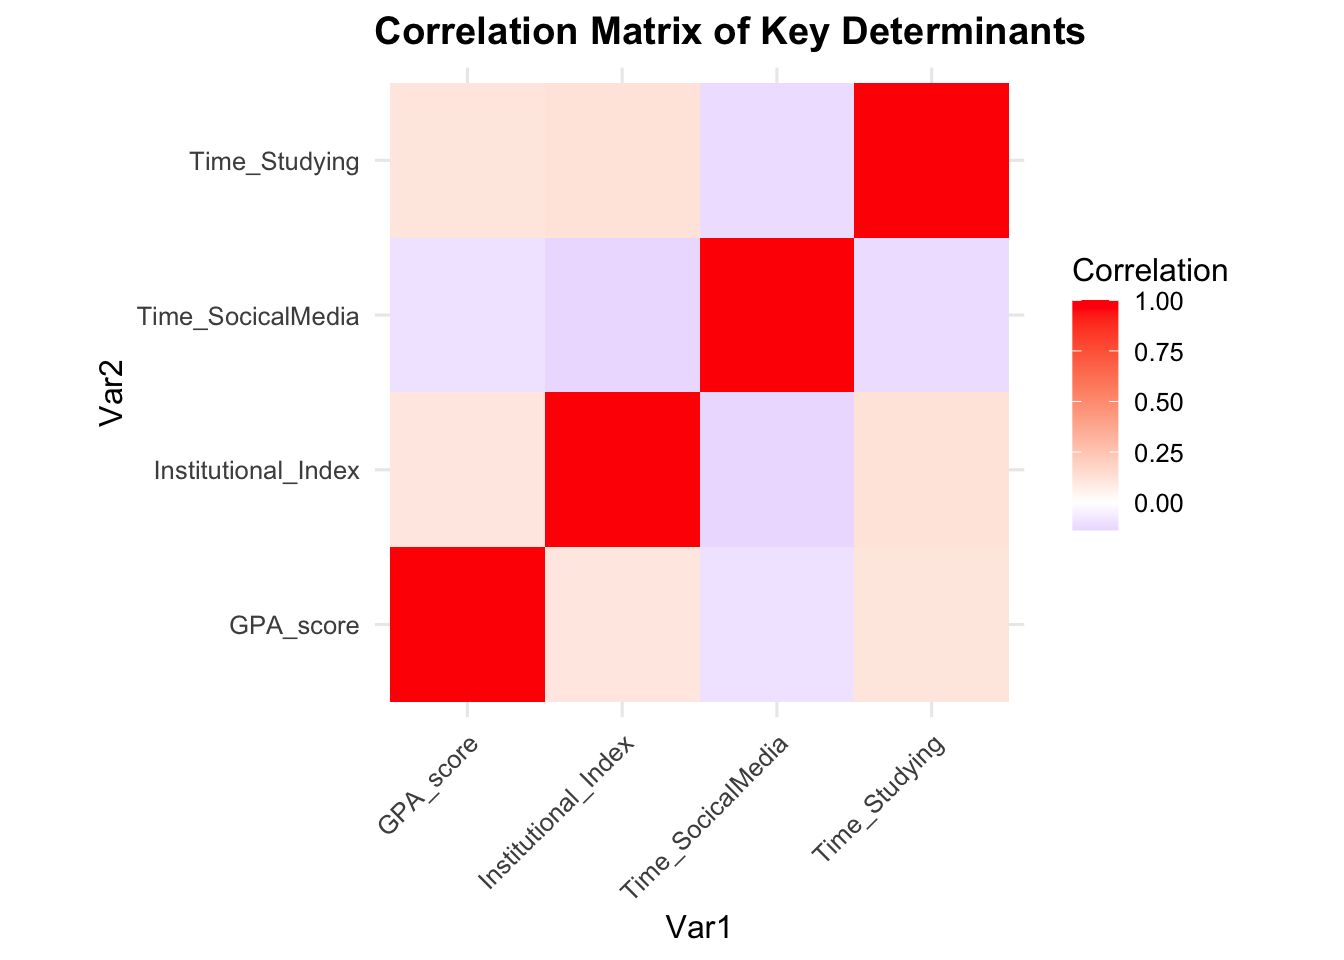
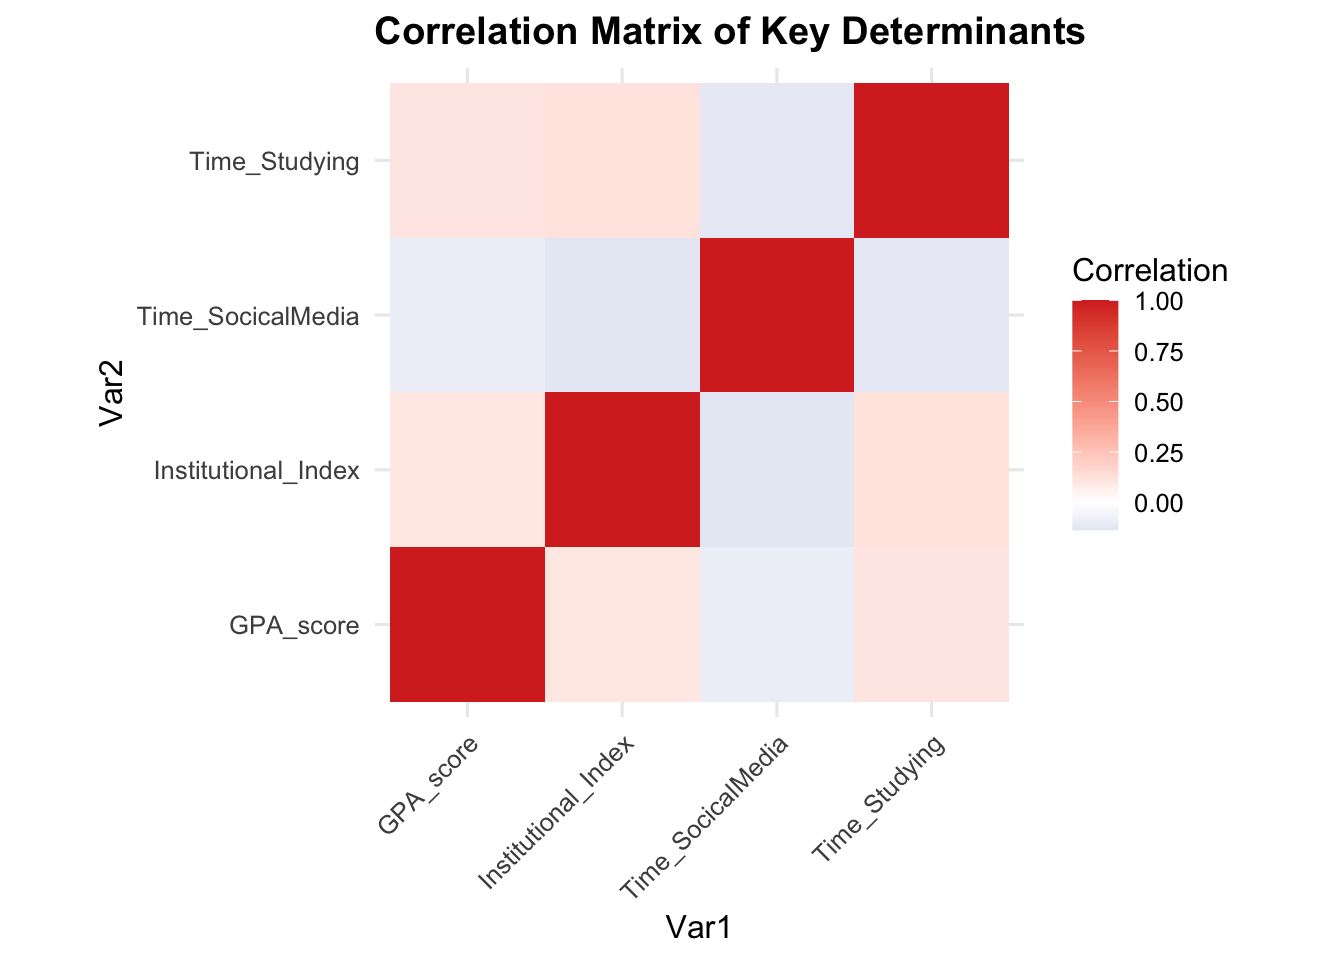
Improve visuals and wordings

Changed region(s): [[0.2812, 0.0625, 0.75, 0.75], [0.7812, 0.3125, 0.8438, 0.375]]

diff --git a/index.html b/index.html
@@ -196,7 +196,7 @@ pre > code.sourceCode > span > a:first-child::before { text-decoration: underlin
 <h2 class="anchored" data-anchor-id="distribution-of-academic-performance">4.1 Distribution of Academic Performance</h2>
 <div class="cell">
 <div class="code-copy-outer-scaffold"><div class="sourceCode cell-code" id="cb5"><pre class="sourceCode r code-with-copy"><code class="sourceCode r"><span id="cb5-1"><a href="#cb5-1" aria-hidden="true" tabindex="-1"></a><span class="fu">ggplot</span>(df, <span class="fu">aes</span>(GPA)) <span class="sc">+</span></span>
-<span id="cb5-2"><a href="#cb5-2" aria-hidden="true" tabindex="-1"></a>  <span class="fu">geom_bar</span>(<span class="at">fill =</span> <span class="st">"#2C3E50"</span>) <span class="sc">+</span></span>
+<span id="cb5-2"><a href="#cb5-2" aria-hidden="true" tabindex="-1"></a>  <span class="fu">geom_bar</span>(<span class="at">fill =</span> <span class="st">"#377EB8FF"</span>) <span class="sc">+</span></span>
 <span id="cb5-3"><a href="#cb5-3" aria-hidden="true" tabindex="-1"></a>  <span class="fu">labs</span>(</span>
 <span id="cb5-4"><a href="#cb5-4" aria-hidden="true" tabindex="-1"></a>    <span class="at">title =</span> <span class="st">"Overall Distribution of GPA Categories"</span>,</span>
 <span id="cb5-5"><a href="#cb5-5" aria-hidden="true" tabindex="-1"></a>    <span class="at">x =</span> <span class="st">"GPA Category"</span>,</span>
@@ -273,7 +273,7 @@ pre > code.sourceCode > span > a:first-child::before { text-decoration: underlin
 <span id="cb8-2"><a href="#cb8-2" aria-hidden="true" tabindex="-1"></a>  <span class="fu">group_by</span>(Father_Edu) <span class="sc">%&gt;%</span></span>
 <span id="cb8-3"><a href="#cb8-3" aria-hidden="true" tabindex="-1"></a>  <span class="fu">summarise</span>(<span class="at">mean_gpa =</span> <span class="fu">mean</span>(GPA_score, <span class="at">na.rm =</span> <span class="cn">TRUE</span>)) <span class="sc">%&gt;%</span></span>
 <span id="cb8-4"><a href="#cb8-4" aria-hidden="true" tabindex="-1"></a>  <span class="fu">ggplot</span>(<span class="fu">aes</span>(<span class="fu">reorder</span>(Father_Edu, mean_gpa), mean_gpa)) <span class="sc">+</span></span>
-<span id="cb8-5"><a href="#cb8-5" aria-hidden="true" tabindex="-1"></a>  <span class="fu">geom_col</span>(<span class="at">fill =</span> <span class="st">"#34495E"</span>) <span class="sc">+</span></span>
+<span id="cb8-5"><a href="#cb8-5" aria-hidden="true" tabindex="-1"></a>  <span class="fu">geom_col</span>(<span class="at">fill =</span> <span class="st">"#377EB8FF"</span>) <span class="sc">+</span></span>
 <span id="cb8-6"><a href="#cb8-6" aria-hidden="true" tabindex="-1"></a>  <span class="fu">coord_flip</span>() <span class="sc">+</span></span>
 <span id="cb8-7"><a href="#cb8-7" aria-hidden="true" tabindex="-1"></a>  <span class="fu">labs</span>(</span>
 <span id="cb8-8"><a href="#cb8-8" aria-hidden="true" tabindex="-1"></a>    <span class="at">title =</span> <span class="st">"Mean GPA by Father's Education Level"</span>,</span>
@@ -300,9 +300,10 @@ pre > code.sourceCode > span > a:first-child::before { text-decoration: underlin
 <span id="cb9-3"><a href="#cb9-3" aria-hidden="true" tabindex="-1"></a>  <span class="fu">labs</span>(</span>
 <span id="cb9-4"><a href="#cb9-4" aria-hidden="true" tabindex="-1"></a>    <span class="at">title =</span> <span class="st">"Effect of Study Methods on GPA"</span>,</span>
 <span id="cb9-5"><a href="#cb9-5" aria-hidden="true" tabindex="-1"></a>    <span class="at">x =</span> <span class="st">"Effectiveness of Study Methods"</span>,</span>
-<span id="cb9-6"><a href="#cb9-6" aria-hidden="true" tabindex="-1"></a>    <span class="at">y =</span> <span class="st">"Proportion"</span></span>
-<span id="cb9-7"><a href="#cb9-7" aria-hidden="true" tabindex="-1"></a>  ) <span class="sc">+</span></span>
-<span id="cb9-8"><a href="#cb9-8" aria-hidden="true" tabindex="-1"></a>  <span class="fu">theme_minimal</span>()</span></code></pre></div><button title="Copy to Clipboard" class="code-copy-button"><i class="bi"></i></button></div>
+<span id="cb9-6"><a href="#cb9-6" aria-hidden="true" tabindex="-1"></a>    <span class="at">y =</span> <span class="st">"Proportion"</span>,</span>
+<span id="cb9-7"><a href="#cb9-7" aria-hidden="true" tabindex="-1"></a>    <span class="at">fill =</span> <span class="st">"GPA Level"</span></span>
+<span id="cb9-8"><a href="#cb9-8" aria-hidden="true" tabindex="-1"></a>  ) <span class="sc">+</span></span>
+<span id="cb9-9"><a href="#cb9-9" aria-hidden="true" tabindex="-1"></a>  <span class="fu">theme_minimal</span>()</span></code></pre></div><button title="Copy to Clipboard" class="code-copy-button"><i class="bi"></i></button></div>
 <div class="cell-output-display">
 <div>
 <figure class="figure">
@@ -311,7 +312,7 @@ pre > code.sourceCode > span > a:first-child::before { text-decoration: underlin
 </div>
 </div>
 </div>
-<p>Students who perceive their study methods as “Quite” or “Very” effective show significantly higher proportions of “Good” and “Excellent” GPA outcomes. Those indicating ineffective study methods display comparatively weaker performance distributions. This suggests that not only the amount of study time but also the quality of study strategies plays a crucial role in academic outcomes. The pattern highlights the importance of effective learning techniques, time management, and self-regulated learning behaviours.</p>
+<p>The chart clearly shows that better study methods lead to higher grades. As the effectiveness rating improves from 1 to 5, the number of students with “Good” and “Excellent” GPAs grows significantly. Meanwhile, lower grades shrink and almost disappear, suggesting that using effective study strategies is the key to achieving top scores.</p>
 </section>
 <section id="institutional-support-index-and-gpa" class="level2">
 <h2 class="anchored" data-anchor-id="institutional-support-index-and-gpa">4.6 Institutional Support Index and GPA</h2>
@@ -334,8 +335,7 @@ pre > code.sourceCode > span > a:first-child::before { text-decoration: underlin
 </div>
 </div>
 </div>
-<p>A positive slope suggests institutional environment complements individual effort.</p>
-<p>A positive linear association emerges between institutional support and GPA. Students reporting stronger institutional and academic support demonstrate higher academic performance. The regression smooth indicates a consistent upward relationship, suggesting that adaptation, lecturer support, curriculum suitability, and study methods collectively contribute to improved outcomes. This composite analysis strengthens inference beyond single-variable comparisons.</p>
+<p>A positive linear trend shows that stronger institutional support is associated with higher GPA. Students who report better academic resources, lecturer support, suitable curriculum, and effective study methods tend to perform better. This suggests that the institutional environment complements individual effort and contributes to improved academic outcomes.</p>
 </section>
 <section id="correlation-structure-of-academic-determinants" class="level2">
 <h2 class="anchored" data-anchor-id="correlation-structure-of-academic-determinants">4.7 Correlation Structure of Academic Determinants</h2>
@@ -353,7 +353,7 @@ pre > code.sourceCode > span > a:first-child::before { text-decoration: underlin
 <span id="cb11-11"><a href="#cb11-11" aria-hidden="true" tabindex="-1"></a></span>
 <span id="cb11-12"><a href="#cb11-12" aria-hidden="true" tabindex="-1"></a><span class="fu">ggplot</span>(cor_data, <span class="fu">aes</span>(Var1, Var2, <span class="at">fill =</span> Correlation)) <span class="sc">+</span></span>
 <span id="cb11-13"><a href="#cb11-13" aria-hidden="true" tabindex="-1"></a>  <span class="fu">geom_tile</span>() <span class="sc">+</span></span>
-<span id="cb11-14"><a href="#cb11-14" aria-hidden="true" tabindex="-1"></a>  <span class="fu">scale_fill_gradient2</span>(<span class="at">low =</span> <span class="st">"blue"</span>, <span class="at">high =</span> <span class="st">"red"</span>, <span class="at">mid =</span> <span class="st">"white"</span>, <span class="at">midpoint =</span> <span class="dv">0</span>) <span class="sc">+</span></span>
+<span id="cb11-14"><a href="#cb11-14" aria-hidden="true" tabindex="-1"></a>  <span class="fu">scale_fill_gradient2</span>(<span class="at">low =</span> <span class="st">"#4575B4"</span>, <span class="at">high =</span> <span class="st">"#D73027"</span>, <span class="at">mid =</span> <span class="st">"white"</span>, <span class="at">midpoint =</span> <span class="dv">0</span>) <span class="sc">+</span></span>
 <span id="cb11-15"><a href="#cb11-15" aria-hidden="true" tabindex="-1"></a>  <span class="fu">coord_equal</span>() <span class="sc">+</span></span>
 <span id="cb11-16"><a href="#cb11-16" aria-hidden="true" tabindex="-1"></a>  <span class="fu">labs</span>(</span>
 <span id="cb11-17"><a href="#cb11-17" aria-hidden="true" tabindex="-1"></a>    <span class="at">title =</span> <span class="st">"Correlation Matrix of Key Determinants"</span>,</span>
@@ -372,14 +372,14 @@ pre > code.sourceCode > span > a:first-child::before { text-decoration: underlin
 </div>
 </div>
 </div>
-<p>The correlation matrix confirms that study time and institutional support are positively associated with GPA, while social media usage exhibits a negative correlation. Institutional support also correlates positively with study behaviour, suggesting interrelated mechanisms. The matrix provides a structural overview of relationships and validates patterns observed in earlier visuals.</p>
+<p>The heatmap reveals that there is almost no relationship between GPA, study time, social media usage, and the institutional index. Aside from the dark orange diagonal line (which just shows where variables match themselves), the rest of the grid is very light, representing correlations near zero. This means that for this specific group, spending more time studying does not guarantee a higher GPA, nor does using social media predict lower grades. Essentially, these factors operate independently and do not influence one another.</p>
 </section>
 <section id="interaction-between-study-time-and-fathers-education" class="level2">
 <h2 class="anchored" data-anchor-id="interaction-between-study-time-and-fathers-education">4.8 Interaction Between Study Time and Father’s Education</h2>
 <div class="cell">
 <div class="code-copy-outer-scaffold"><div class="sourceCode cell-code" id="cb12"><pre class="sourceCode r code-with-copy"><code class="sourceCode r"><span id="cb12-1"><a href="#cb12-1" aria-hidden="true" tabindex="-1"></a>df <span class="sc">%&gt;%</span></span>
 <span id="cb12-2"><a href="#cb12-2" aria-hidden="true" tabindex="-1"></a>  <span class="fu">group_by</span>(Father_Edu, Time_Studying) <span class="sc">%&gt;%</span></span>
-<span id="cb12-3"><a href="#cb12-3" aria-hidden="true" tabindex="-1"></a>  <span class="fu">summarise</span>(<span class="at">mean_gpa =</span> <span class="fu">mean</span>(GPA_score, <span class="at">na.rm =</span> <span class="cn">TRUE</span>)) <span class="sc">%&gt;%</span></span>
+<span id="cb12-3"><a href="#cb12-3" aria-hidden="true" tabindex="-1"></a>  <span class="fu">summarise</span>(<span class="at">mean_gpa =</span> <span class="fu">mean</span>(GPA_score, <span class="at">na.rm =</span> <span class="cn">TRUE</span>), <span class="at">.groups =</span> <span class="st">"drop"</span>) <span class="sc">%&gt;%</span></span>
 <span id="cb12-4"><a href="#cb12-4" aria-hidden="true" tabindex="-1"></a>  <span class="fu">ggplot</span>(<span class="fu">aes</span>(Time_Studying, mean_gpa,</span>
 <span id="cb12-5"><a href="#cb12-5" aria-hidden="true" tabindex="-1"></a>             <span class="at">colour =</span> Father_Edu,</span>
 <span id="cb12-6"><a href="#cb12-6" aria-hidden="true" tabindex="-1"></a>             <span class="at">group =</span> Father_Edu)) <span class="sc">+</span></span>
@@ -398,6 +398,7 @@ pre > code.sourceCode > span > a:first-child::before { text-decoration: underlin
 </div>
 </div>
 </div>
+<p>The chart demonstrates that while initial GPA varies significantly by a father’s education level, increased study time acts as an equalizer. Students from “Primary” or “High School” backgrounds start with lower averages but show steady improvement as effort increases. Conversely, the “University” and “Other” groups exhibit more volatile patterns, though they generally maintain higher performance. By the &gt;8h mark, the performance gap narrows significantly, as most groups converge toward a higher Mean GPA. Ultimately, the data suggests that high study volume can mitigate the impact of socioeconomic background on academic success.</p>
 </section>
 <section id="adaptation-to-university-and-gpa" class="level2">
 <h2 class="anchored" data-anchor-id="adaptation-to-university-and-gpa">4.9 Adaptation to University and GPA</h2>
@@ -418,7 +419,7 @@ pre > code.sourceCode > span > a:first-child::before { text-decoration: underlin
 </div>
 </div>
 </div>
-<p>A strong positive relationship is visible between adaptation level and GPA. Students reporting “Very” high adaptation demonstrate the largest share of “Excellent” and “Good” outcomes. In contrast, students struggling to adapt show higher proportions of lower GPA categories. This suggests that successful adjustment to the university environment may be critical for academic success. Adaptation likely influences engagement, motivation, and learning efficiency, making it an important institutional and psychological factor.</p>
+<p>Adaptation to the university environment shows a clear positive correlation with GPA, particularly at the higher ends of the scale. As students report higher levels of adaptation, the proportion of “Good” and “Excellent” grades expands considerably, while the “Poor” and “Average” grades diminishes. While there is a slight dip in “Good” grades at level 2 compared to level 1, the overall trend confirms that students who feel well-adjusted to their environment are far more likely to secure top academic results.</p>
 </section>
 <section id="academic-performance-by-behavioural-support-profiles" class="level2">
 <h2 class="anchored" data-anchor-id="academic-performance-by-behavioural-support-profiles">4.10 Academic Performance by Behavioural-Support Profiles</h2>
@@ -452,6 +453,7 @@ pre > code.sourceCode > span > a:first-child::before { text-decoration: underlin
 </div>
 </div>
 </div>
+<p>The data on behavioral-support profiles illustrates that a strong support system is a critical for academic success. Students with “High Study &amp; High Support” achieve the highest mean GPA, but interestingly, those with “Low Study &amp; High Support” perform better than students who have high study habits but low support. This suggests that having external helps can compensate for less rigorous individual study, whereas isolation negatively impacts grades even when study effort is high. The most significant drop in performance occurs for students with “Low Study &amp; Low Support,” whose mean GPA falls drastically below 3.0, highlighting the danger of lacking both personal discipline and a safety net.</p>
 </section>
 </section>
 <section id="summary-and-conclusion" class="level1">
